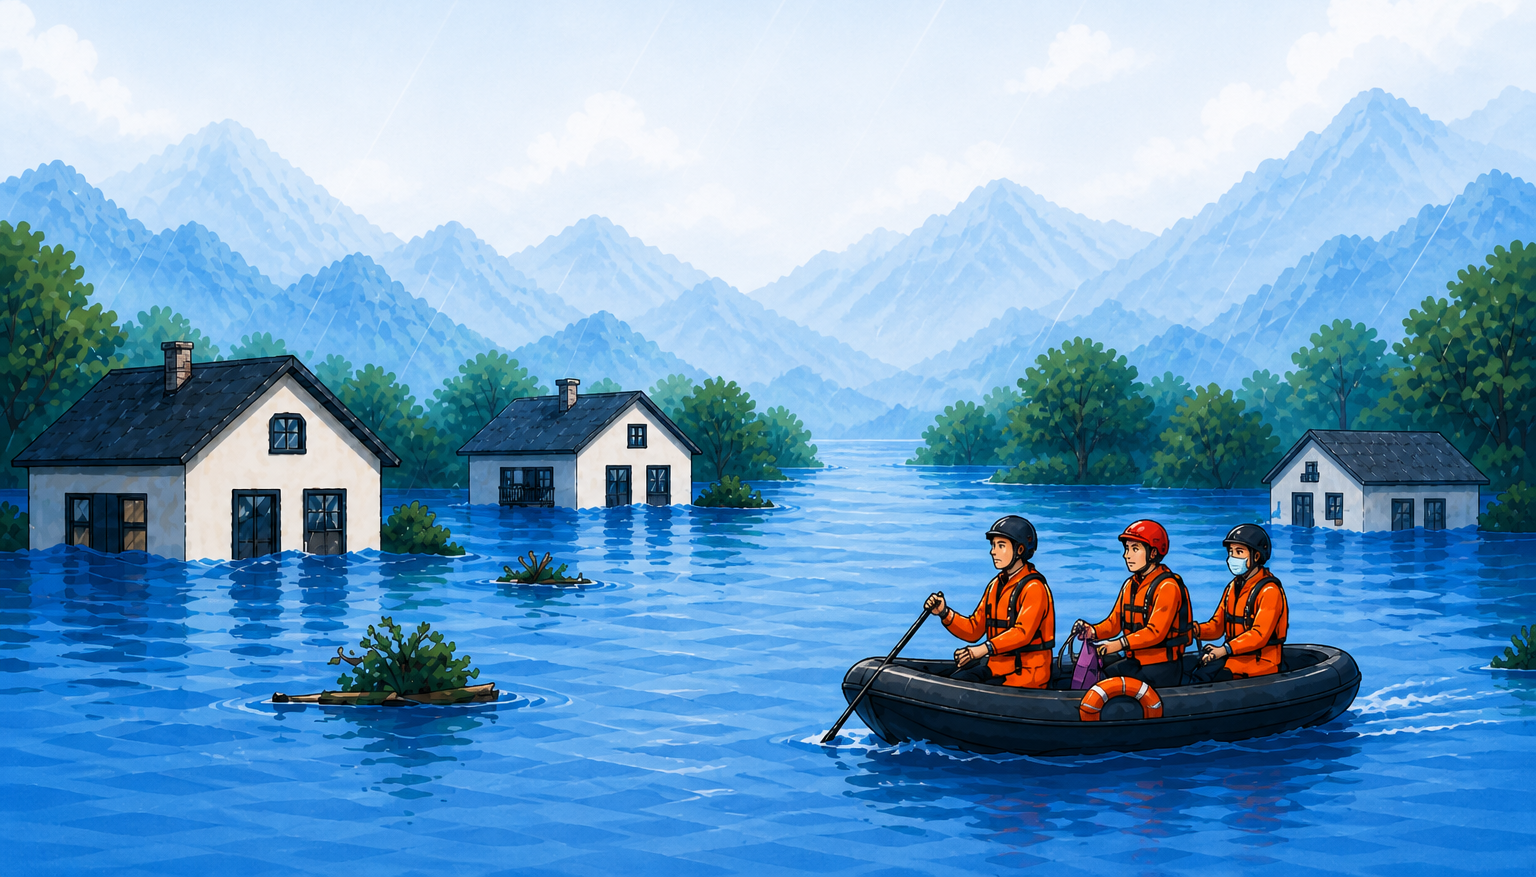
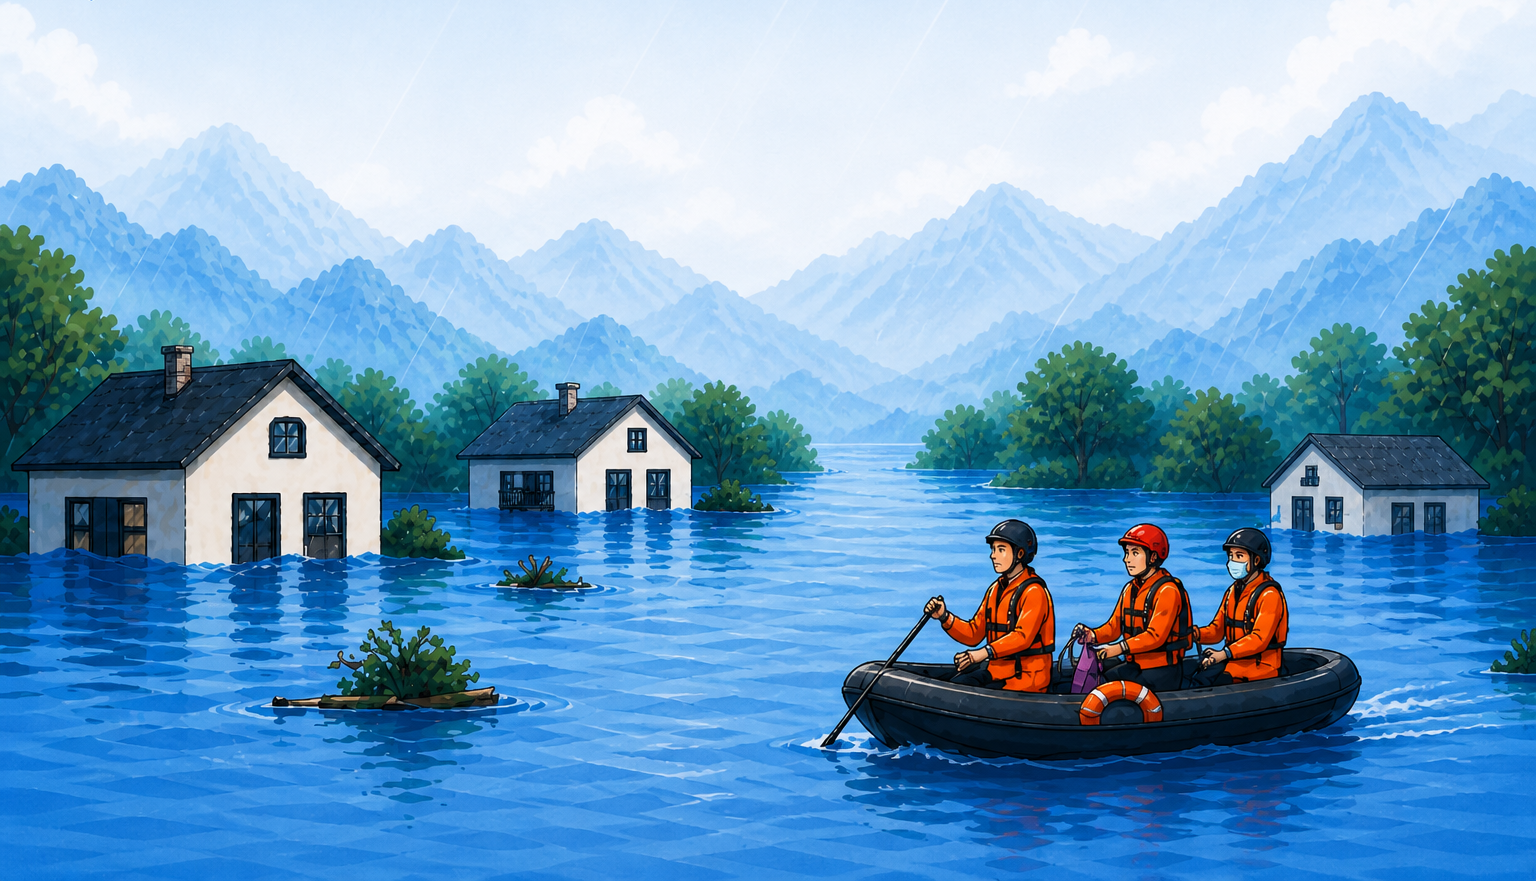
21/05/2026

diff --git a/src/features/auth/components/FormQMK.tsx b/src/features/auth/components/FormQMK.tsx
@@ -1,22 +1,221 @@
-import React from 'react'
-import { FaLock } from 'react-icons/fa'
+import React, { useState } from "react";
+import { FaArrowLeft, FaLock } from "react-icons/fa";
+import { MdSecurity } from "react-icons/md";
+import { ShieldCheckIcon } from "lucide-react";
+
+import { Input } from "./ui/Input";
+import { Button } from "./ui/Button";
 
 export const FormQMK = () => {
-  return (
-    <div className='w-full min-h-screen bg-[url("/image/nenform.png")] bg-cover bg-center bg-no-repeat overflow-hidden'>
-     <div className=" w-full min-h-screen  flex   sm:justify-center  lg:justify-start     items-start">
-  <div className="
-    bg-white 
-    lg:ml-10
-    w-full max-w-[600px] 
-    h-auto 
-    mt-10 p-6 
-    rounded-lg shadow-lg
-  ">
-    Nội dung form
-  </div>
-</div>
+  const [email, setEmail] = useState("");
 
+  return (
+    <div
+      className="
+        w-screen
+    h-screen
+    bg-[url('/image/nenform.png')]
+    bg-cover
+    bg-center
+    bg-no-repeat
+    overflow-hidden
+      "
+    >
+      {/* Header */}
+      <div
+        className="
+          flex
+          justify-center
+          items-center
+          
+          p-4
+  
+          text-center
+        "
+      >
+        <MdSecurity
+          className="
+            text-5xl
+            sm:text-6xl
+            lg:text-5xl
+            text-[#1D3178]
+            shrink-0
+          "
+        />
+
+        <p
+          className="
+            font-bold
+            text-xl
+            sm:text-2xl
+            lg:text-3xl
+            text-[#1D3178]
+          "
+        >
+          HỆ THỐNG CẢNH BÁO VÀ CỨU HỘ LŨ LỤT
+        </p>
+      </div>
+
+      {/* Container */}
+      <div
+        className="
+          w-full
+          h-[calc(100vh-90px)]
+          flex
+          justify-center
+          lg:justify-start
+          items-center
+          px-4
+        "
+      >
+        {/* Card */}
+        <div
+          className="
+            bg-white/90
+            backdrop-blur-sm
+            w-full
+            max-w-[600px]
+            lg:ml-14
+            p-6
+            rounded-2xl
+            shadow-2xl
+          "
+        >
+          <form>
+            {/* Top */}
+            <div className="flex flex-col justify-center items-center">
+              <FaLock
+                className="
+                  rounded-full
+                  text-5xl
+                  sm:text-6xl
+                  lg:text-7xl
+                  border
+                  p-2
+                  lg:p-3
+                  bg-[#B1C9F9]
+                  border-[#B1C9F9]
+                  text-[#0C317B]
+                "
+              />
+
+              <p
+                className="
+                  font-bold
+                  text-xl
+                  sm:text-2xl
+                  text-black
+                  mt-3
+                "
+              >
+                QUÊN MẬT KHẨU
+              </p>
+
+              <p
+                className="
+                  text-xs
+                  sm:text-sm
+                  lg:text-base
+                  text-center
+                  text-gray-700
+                  mt-2
+                  leading-5
+                "
+              >
+                Nhập email hoặc số điện thoại mà bạn đã đăng ký
+                để nhận hướng dẫn đặt lại mật khẩu
+              </p>
+            </div>
+
+            {/* Input */}
+            <div className="mt-5">
+              <Input
+                id="email"
+                type="email"
+                label="Email"
+                placeholder="Nhập email bạn đã đăng ký"
+                onChange={setEmail}
+                value={email}
+              />
+            </div>
+
+            {/* Button */}
+            <Button
+              className="
+                bg-[#1C5FE5]
+                text-white
+                mt-4
+                w-full
+                rounded-lg
+                h-11
+                hover:bg-[#0C317B]
+                transition-all
+              "
+              children="Gửi mã xác nhận"
+            />
+
+            {/* Back */}
+            <div
+              className="
+                mt-4
+                font-light
+                flex
+                justify-center
+                items-center
+                gap-2
+                text-[#1C5FE5]
+                hover:text-black
+                cursor-pointer
+                transition-all
+              "
+            >
+              <FaArrowLeft />
+              <p>Quay về trang chủ</p>
+            </div>
+
+            {/* Note */}
+            <div
+              className="
+                mt-6
+                border
+                border-[#1C5FE5]
+                bg-[#EEF4FF]
+                rounded-xl
+                p-4
+                flex
+                items-start
+                gap-4
+              "
+            >
+              {/* Icon */}
+              <div
+                className="
+                  min-w-[40px]
+                  h-10
+                  flex
+                  items-start
+                  justify-center
+                  text-[#1C5FE5]
+                "
+              >
+                <ShieldCheckIcon className="w-7 h-7" />
+              </div>
+
+              {/* Content */}
+              <div className="flex flex-col">
+                <p className="text-black font-bold text-lg">
+                  Lưu ý
+                </p>
+
+                <p className="text-gray-700 text-sm mt-1 leading-5">
+                  Vui lòng kiểm tra hộp thư (bao gồm Spam)
+                  để nhận email hướng dẫn đặt lại mật khẩu.
+                </p>
+              </div>
+            </div>
+          </form>
+        </div>
+      </div>
     </div>
-  )
-}
+  );
+};

diff --git a/src/features/auth/components/LoginPage.tsx b/src/features/auth/components/LoginPage.tsx
@@ -6,19 +6,7 @@ import { FormQMK } from "./FormQMK";
 const LoginPage: React.FC = () => {
   return (
     <div
-      className="
-        min-h-screen
-        flex
-        items-center
-        justify-center
-        p-4
-      "
     >
- 
-
-  
-
-        {/* LOGIN FORM */}
         <FormQMK />
       </div>
 

diff --git a/src/features/auth/components/ui/Button.tsx b/src/features/auth/components/ui/Button.tsx
@@ -1,4 +1,4 @@
-import SosImage from "../../../../assets/17d8bcd8-f778-4161-8007-f5649967999a.png"
+
 
 interface ButtonProps{
  type?: "button" | "submit" | "reset";